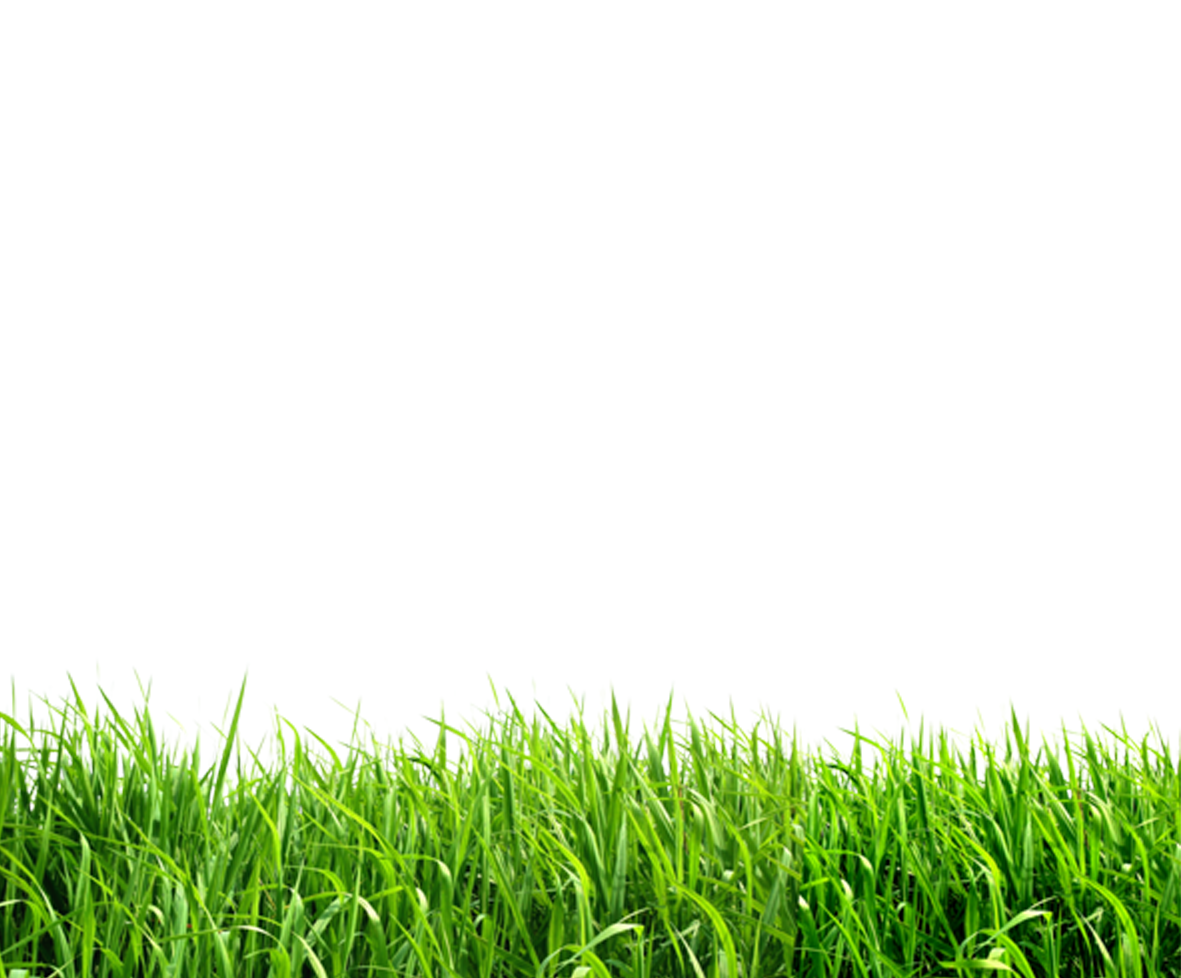
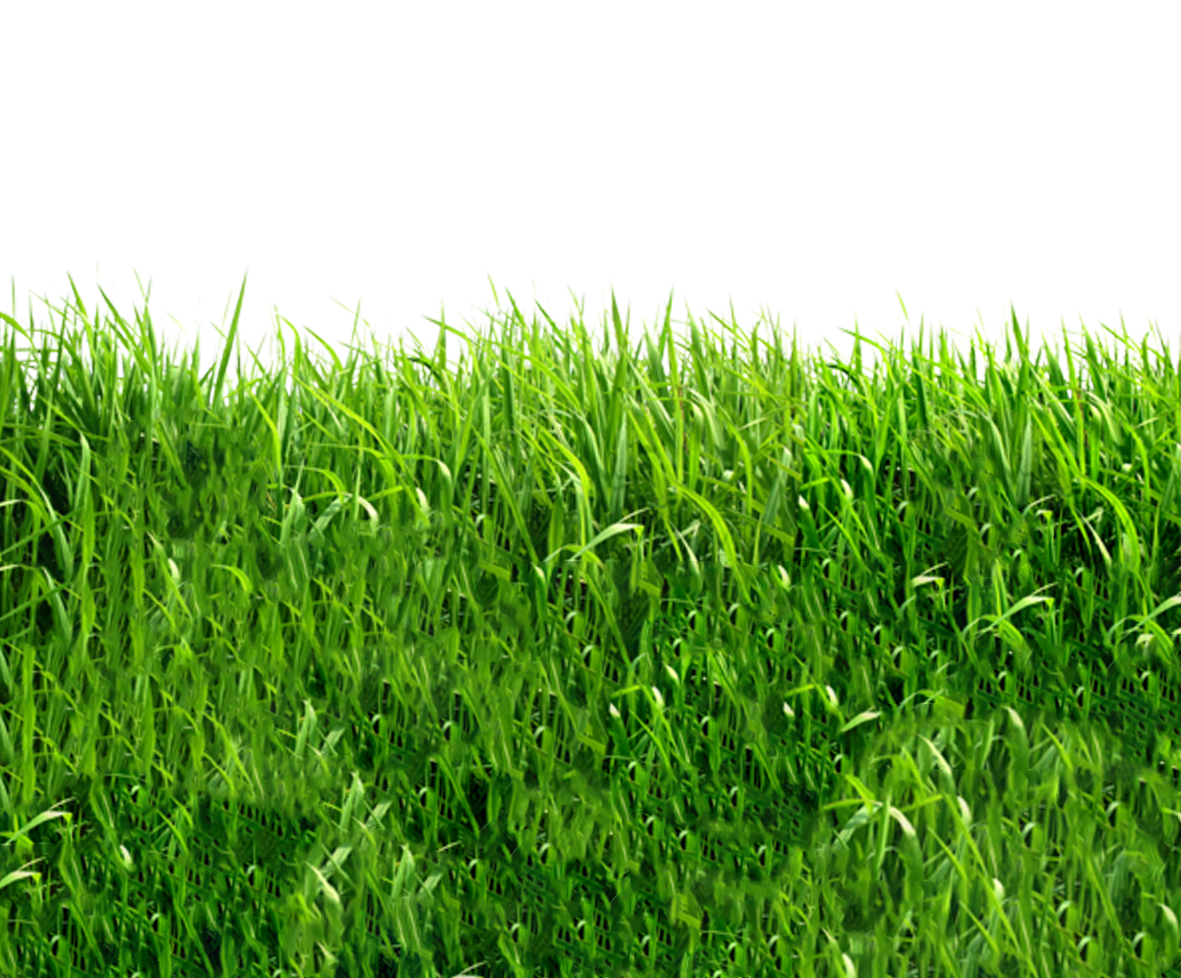
[edit] matetial page

diff --git a/dogKing.html b/dogKing.html
@@ -64,7 +64,6 @@
         </section>
         <section class="section100">
             <p class="materialText">다양한 재료 선택</p>
-            <img class="materialImg" src="waffleBock.png">
             <div class="slider">
                 <div>
                     <div class="sliderItemText">사료</div>
@@ -89,7 +88,11 @@
                 <div>
                     <div class="sliderItemText">잔디</div>
                     <br>
-                    <img class="sliderItem" src="slideImage/grass.png">
+                    <img style="
+                    width: 13vw;
+                    display: block;
+                    margin-left: auto;
+                    margin-right: auto;" src="slideImage/BigGrass.png">
                 </div>
                 <div>
                     <div class="sliderItemText">흙</div>
@@ -97,6 +100,7 @@
                     <img class="sliderItem" src="slideImage/sand.png">
                 </div>
             </div>
+            <img class="materialImg" src="waffleBlock.png">
         </section>
         <section class="section100">
             <div>기대효과</div>
@@ -123,26 +127,34 @@
         <script type="text/javascript">
             $(function(){
                 $('.slider').slick({
-                    slidesToShow: 5,
+                    centerMode: true,
+                    centerPadding: '60px',
+                    slidesToShow: 3,
                     slidesToScroll: 1,
                     autoplay: true,
                     autoplaySpeed: 2000,
                     pauseOnHover : true,
                     responsive: [
-                    {
-                        breakpoint: 600,
-                        settings: {
-                            slidesToShow: 3,
-                            slidesToScroll: 1
+                        {
+                            breakpoint: 768,
+                            settings: {
+                                arrows: false,
+                                centerMode: true,
+                                centerPadding: '40px',
+                                slidesToShow: 3,
+                                slidesToScroll: 1
+                            }
+                        },
+                        {  
+                            breakpoint: 480,
+                            settings: {
+                                arrows: false,
+                                centerMode: true,
+                                centerPadding: '40px',
+                                slidesToShow: 1,
+                                slidesToScroll: 1
+                            }
                         }
-                    },
-                    {
-                        breakpoint: 480,
-                        settings: {
-                            slidesToShow: 1,
-                            slidesToScroll: 1
-                        }
-                    }
                     ]
                 });
             });

diff --git a/material.css b/material.css
@@ -1,6 +1,6 @@
 .materialText{
     position: relative;
-    padding-top: 16%;
+    padding-top: 8%;
     margin:0px;
 	text-align:center;
 	font-family:"NotoSans Bold";
@@ -10,17 +10,25 @@
 }
 .materialImg{
     display: block;
-    width: 40%;
+    width: 32%;
     position: relative;
-    padding-top: 4%;
+    margin-top: -24%;
     margin-left: auto;
     margin-right: auto;
 }
 .slider{
-    margin-top: -30em;
+    padding-top: 13vw;
+}
+.sliderItemBackground{
+    max-width: 50%;
+    height: auto;
+    display: block;
+    margin-left: auto;
+    margin-right: auto;
+    background-color: #FFF7E7;
 }
 .sliderItem{
-    width: 12vw;
+    width: 8vw;
     display: block;
     margin-left: auto;
     margin-right: auto;
@@ -28,7 +36,7 @@
 .sliderItemText{
     text-align: center;
 	font-family:"Montserrat";
-	font-weight:349;
+	font-weight:350;
     font-size:1.3vw;
 	color: #363636;
 }
